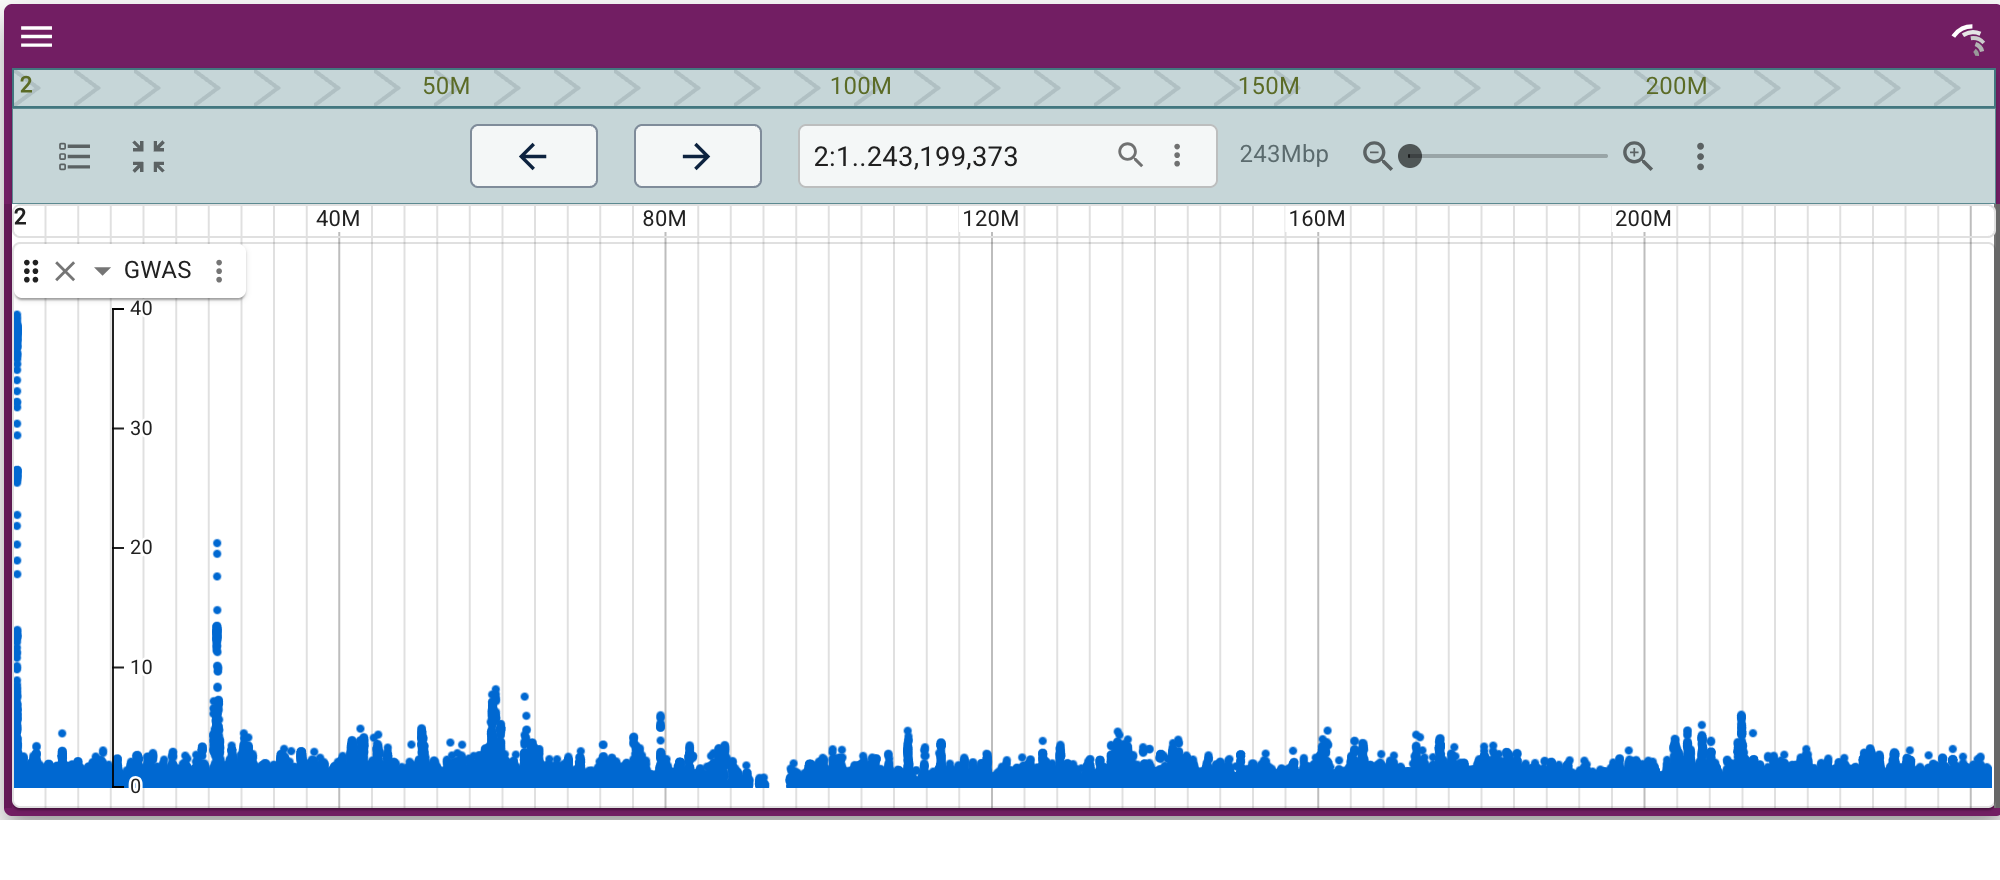
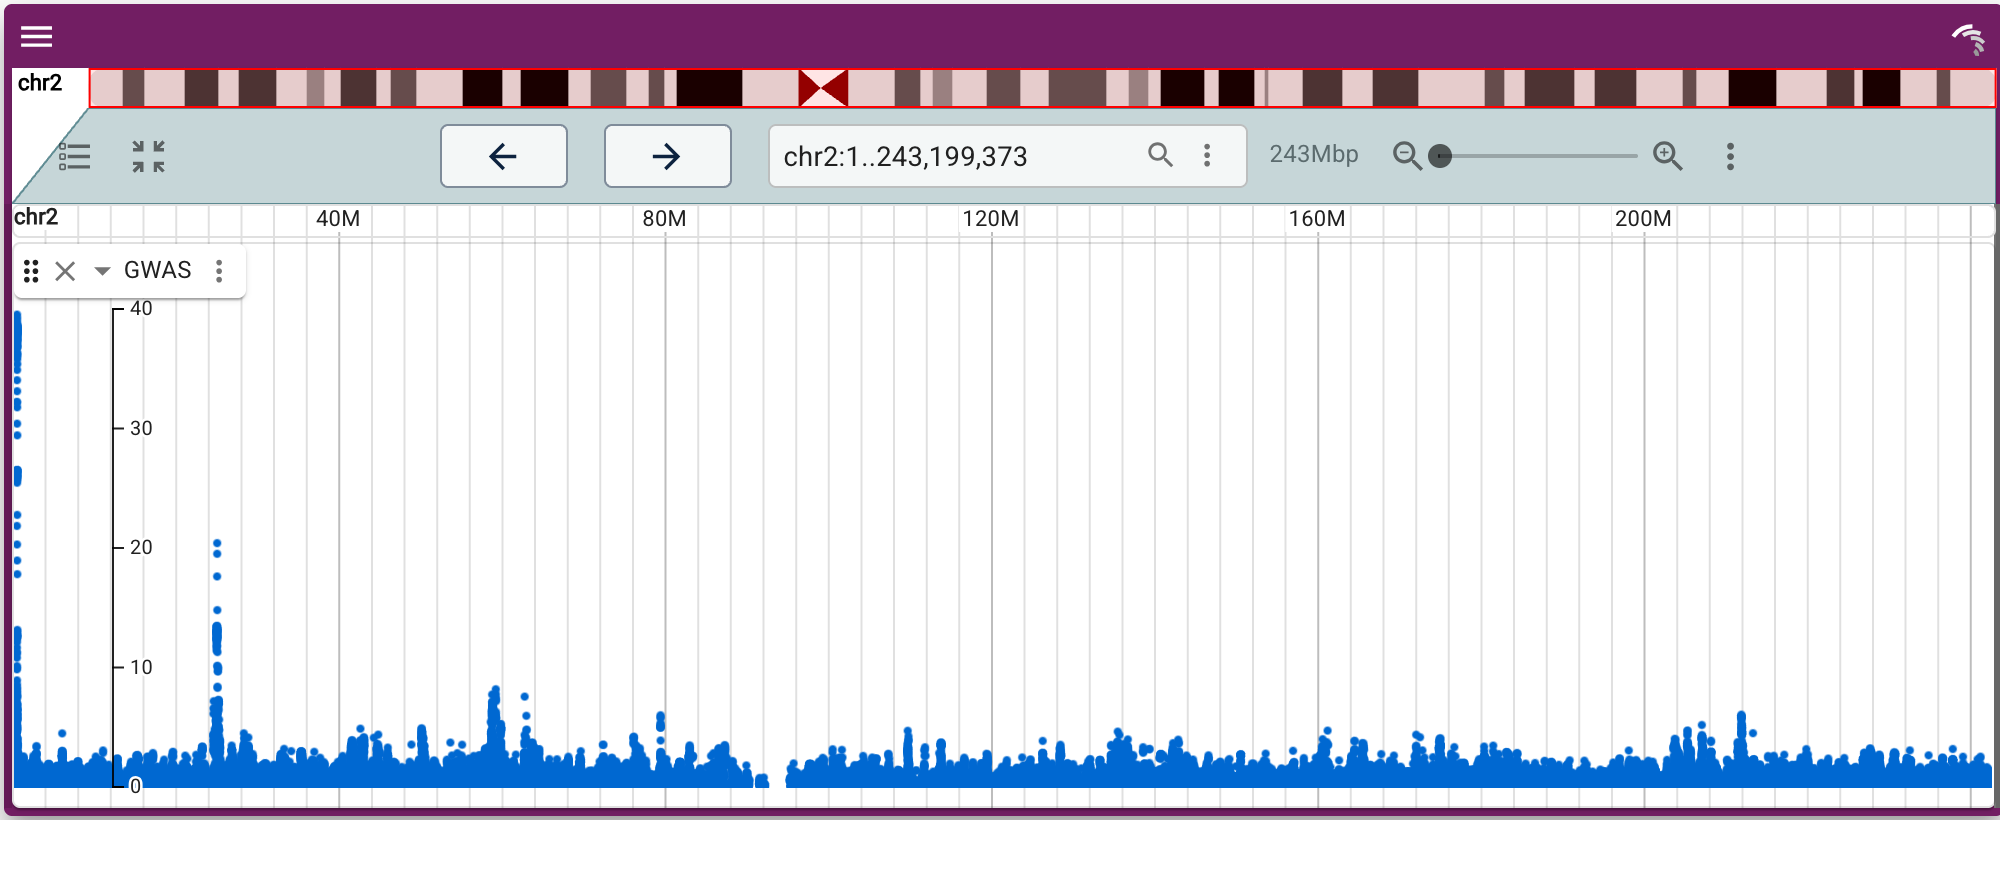
revert: hg19 needs no explicit alias config, the hub carries them now
The hosted hg19 hub config gained refNameAliases and cytobands upstream, so
assembly="hg19" resolves bare chromosome names again and the GWAS track draws.
Back to the one-line hub form in the Manhattan spec and README.

Claude-Session: https://claude.ai/code/session_01LMRKTxjV7WH8JHNxuRML3n

Changed region(s): [[0.0, 0.0614, 1.0, 0.2761], [0.806, 0.1534, 0.868, 0.1841]]

diff --git a/scripts/gen_screenshot_specs.py b/scripts/gen_screenshot_specs.py
@@ -36,14 +36,6 @@ REFSEQ_GFF = (
     "GCA_000001405.15_GRCh38_full_analysis_set.refseq_annotation.sorted.gff.gz"
 )
 
-# the hosted hg19 hub config carries no refNameAliases (hg38's does), so its
-# refNames are reachable only as chrN and a track keyed on bare N draws nothing
-# — spelling the assembly out with its aliases file fixes both
-HG19 = {
-    "name": "hg19",
-    "uri": "https://jbrowse.org/genomes/hg19/fasta/hg19.fa.gz",
-    "refNameAliases": {"uri": "https://jbrowse.org/genomes/hg19/hg19_aliases.txt"},
-}
 VOLVOX = {"name": "volvox", "uri": "https://jbrowse.org/genomes/volvox/volvox.fa.gz"}
 
 VOLVOX_DATA = (
@@ -173,7 +165,7 @@ def multisample_variants():
 def manhattan():
     return lgv_spec(
         LinearGenomeView(
-            assembly=HG19,
+            assembly="hg19",
             location="2",
             tracks=[
                 {

diff --git a/README.md b/README.md
@@ -180,13 +180,7 @@ JBrowse fills in `displayId`:
 
 ```python
 LinearGenomeView(
-    # the hosted hg19 hub has no refName aliases, so spell the assembly out with
-    # its alias file — otherwise a track keyed on `2` finds nothing under `chr2`
-    assembly={
-        "name": "hg19",
-        "uri": "https://jbrowse.org/genomes/hg19/fasta/hg19.fa.gz",
-        "refNameAliases": {"uri": "https://jbrowse.org/genomes/hg19/hg19_aliases.txt"},
-    },
+    assembly="hg19",
     location="2",
     tracks=[{
         "type": "GWASTrack",